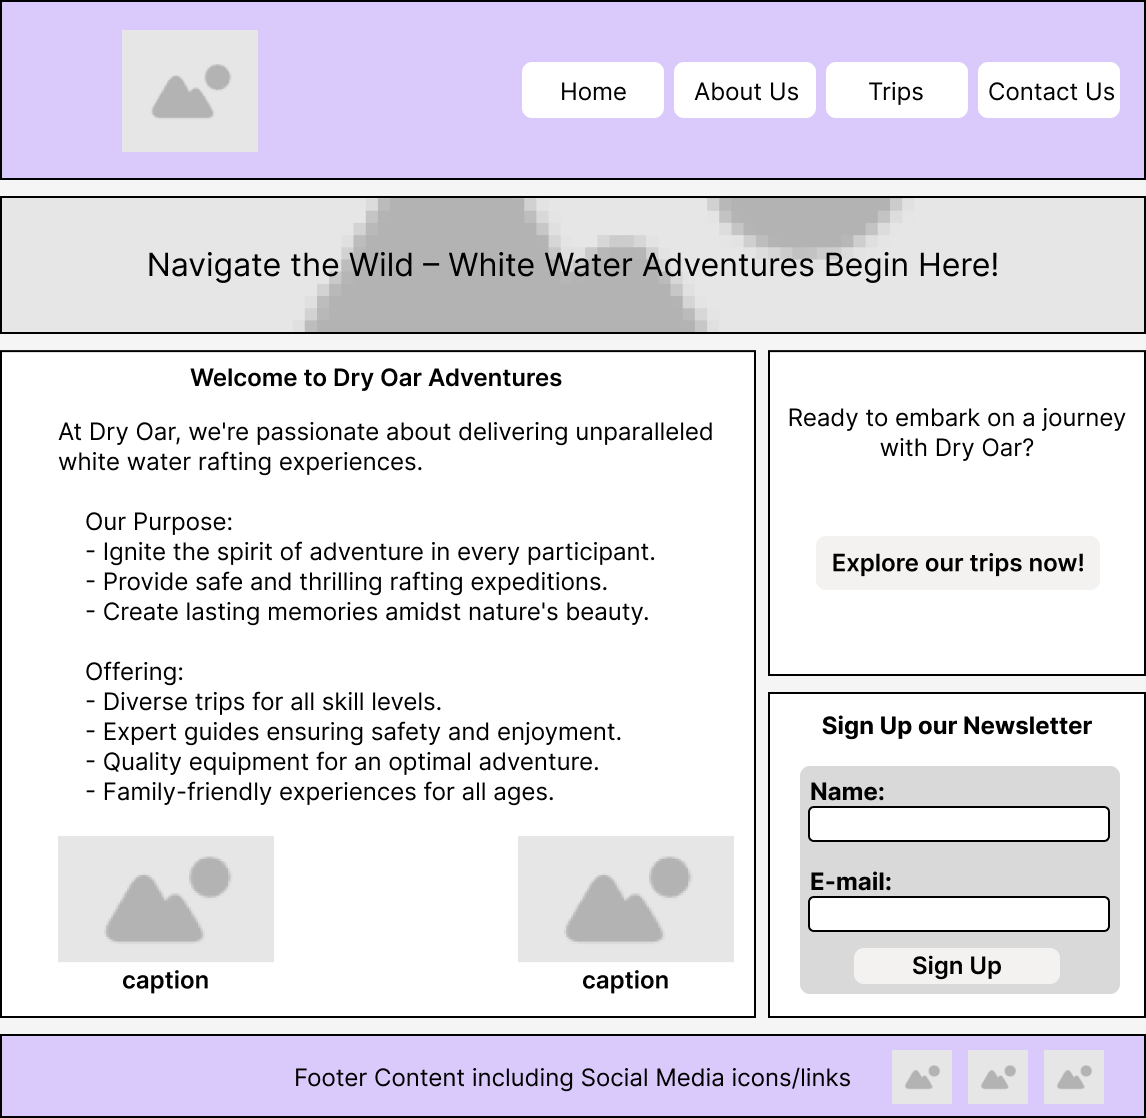
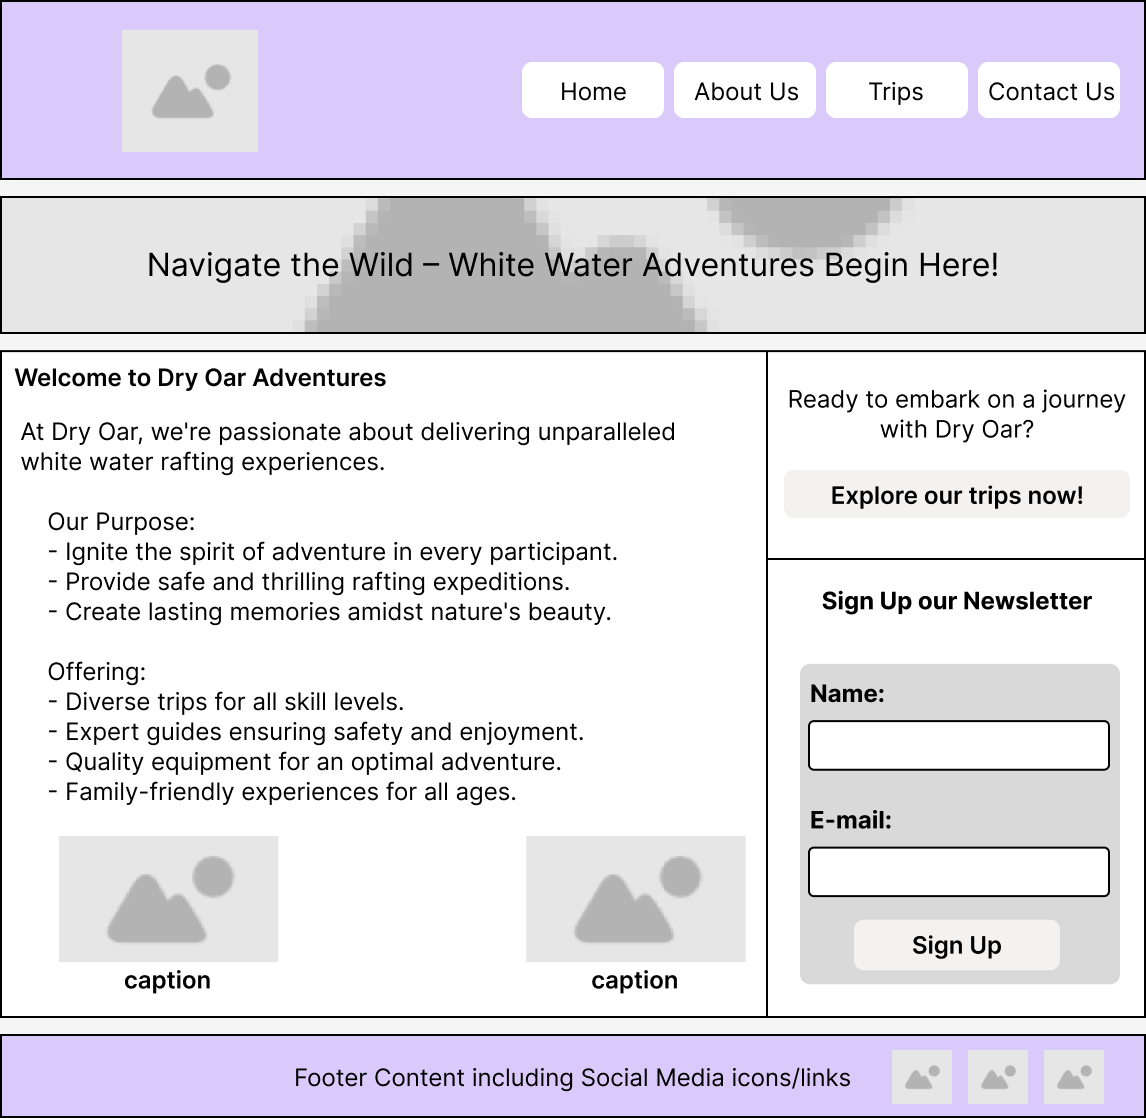
Final Project

diff --git a/wwr/about.html b/wwr/about.html
@@ -27,41 +27,44 @@
                 <p>Lorem ipsum dolor sit amet consectetur adipisicing elit. Labore, voluptatum voluptas nulla officiis in atque illo. Pariatur et tenetur culpa quaerat totam ex iure, doloremque ea est vel soluta provident deserunt eius nemo qui voluptatum commodi sed voluptates placeat aliquid ratione perferendis. Possimus doloremque odit iusto iste veritatis autem. Soluta.</p>
             </article>
         </div>
-        <div>
-            <h2>History</h2>
-            <section class="history">
-                <img src="images/history.jpg" alt="people rafting">
-                <p>History ... Lorem, ipsum dolor sit amet consectetur adipisicing elit. Nam aliquam, atque deserunt ullam a architecto nihil aspernatur dolorem earum tempore in consectetur enim corporis, quasi ipsum fuga, tenetur dicta rerum expedita quae nesciunt distinctio possimus aperiam doloribus! Consequatur, minima? Quae tempore omnis voluptatem, provident esse qui recusandae corrupti consequatur voluptate nisi hic suscipit odio officia, rerum, facere illo ratione magni! Atque nam inventore commodi? Suscipit doloribus qui iste, quaerat eveniet mollitia quas repellat accusamus autem consequuntur voluptatum? Quidem nobis sed rem totam natus harum eius nam! Ducimus officia, consequatur et repellat provident est architecto eum dolores numquam deleniti iure non, dolor modi eos labore. Minima unde iusto, consectetur nihil itaque saepe accusantium velit qui distinctio, excepturi blanditiis assumenda modi ducimus officiis deleniti deserunt. Inventore ut, quas repudiandae omnis alias consequatur, unde amet rem eius necessitatibus eos, sed odio dignissimos culpa perferendis?</p>
-            </section>
-        </div>
-        <div>
-            <h2>Adventure Awaits You!</h2>
-            <section class="adventure">
-                <figure>
-                    <img src="images/rafting.jpg" alt="Happy rafting team">
-                    <figcaption>Happy rafting team</figcaption>
-                </figure>
-                <figure>
-                    <img src="images/rafting2.jpg" alt="A rafting boat going down a river">
-                    <figcaption>A rafting boat going down a river</figcaption>
-                </figure>
-                <figure>
-                    <img src="images/rafting3.jpg" alt="Adults and children on a rafting boat">
-                    <figcaption>Adults and children on a rafting boat</figcaption>
-                </figure>
-                <figure>
-                    <img src="images/rafting4.jpg" alt="Rafting boats going down a river">
-                    <figcaption>Rafting boats going down a river</figcaption>
-                </figure>
-                <figure>
-                    <img src="images/rafting5.jpg" alt="A rafting boat going down a river">
-                    <figcaption>A rafting boat going down a river</figcaption>
-                </figure>
-            </section>
+        <div class="main-content">
+            <div>
+                <h2>History</h2>
+                <section class="history">
+                    <img src="images/history.jpg" alt="people rafting">
+                    <p>History ... Lorem, ipsum dolor sit amet consectetur adipisicing elit. Nam aliquam, atque deserunt ullam a architecto nihil aspernatur dolorem earum tempore in consectetur enim corporis, quasi ipsum fuga, tenetur dicta rerum expedita quae nesciunt distinctio possimus aperiam doloribus! Consequatur, minima? Quae tempore omnis voluptatem, provident esse qui recusandae corrupti consequatur voluptate nisi hic suscipit odio officia, rerum, facere illo ratione magni! Atque nam inventore commodi? Suscipit doloribus qui iste, quaerat eveniet mollitia quas repellat accusamus autem consequuntur voluptatum? Quidem nobis sed rem totam natus harum eius nam! Ducimus officia, consequatur et repellat provident est architecto eum dolores numquam deleniti iure non, dolor modi eos labore. Minima unde iusto, consectetur nihil itaque saepe accusantium velit qui distinctio, excepturi blanditiis assumenda modi ducimus officiis deleniti deserunt. Inventore ut, quas repudiandae omnis alias consequatur, unde amet rem eius necessitatibus eos, sed odio dignissimos culpa perferendis?</p>
+                </section>
+            </div>
+            <div>
+                <h2>Adventure Awaits You!</h2>
+                <section class="adventure">
+                    <figure>
+                        <img src="images/rafting.jpg" alt="Happy rafting team">
+                        <figcaption>Happy rafting team</figcaption>
+                    </figure>
+                    <figure>
+                        <img src="images/rafting2.jpg" alt="A rafting boat going down a river">
+                        <figcaption>A rafting boat going down a river</figcaption>
+                    </figure>
+                    <figure>
+                        <img src="images/rafting3.jpg" alt="Adults and children on a rafting boat">
+                        <figcaption>Adults and children on a rafting boat</figcaption>
+                    </figure>
+                    <figure>
+                        <img src="images/rafting4.jpg" alt="Rafting boats going down a river">
+                        <figcaption>Rafting boats going down a river</figcaption>
+                    </figure>
+                    <figure>
+                        <img src="images/rafting5.jpg" alt="A rafting boat going down a river">
+                        <figcaption>A rafting boat going down a river</figcaption>
+                    </figure>
+                </section>
+            </div>
         </div>
     </main>
     <footer>
         <p>&copy; 2023 🛶 Dry Oar 🛶 Wesley Magalhães Lima</p>
+        <p></p>
         <nav>
             <a href="https://www.facebook.com/" target="_blank">
                 <img src="images/facebook-icon.png" alt="Facebook icon">

diff --git a/wwr/styles/rafting.css b/wwr/styles/rafting.css
@@ -45,8 +45,8 @@ nav {
     margin-right: 1rem;
 }
 
-header nav a, .trips-table a {
-    display: block;
+header nav a, .trips-table a, .explore-trips a {
+    display: grid;
     font-family: var(--paragraph-font);
     text-decoration: none;
     color: white;
@@ -55,11 +55,11 @@ header nav a, .trips-table a {
     border-radius: 5px;
     margin: 5px;
     font-size: 1.1rem;
-    width: 100%;
+    width: 98%;
     text-align: center;
 }
 
-header nav a:hover, .trips-table a:hover {
+header nav a:hover, .trips-table a:hover, .explore-trips a:hover {
     font-family: var(--paragraph-font);
     background-color: var(--nav-hover-background-color);
     color: var(--nav-hover-link-color);
@@ -70,20 +70,21 @@ header nav a:hover, .trips-table a:hover {
 body {
     max-width: 1200px;
     margin: 1rem;
+    font-family: var(--paragraph-font);
 }
 
 h1, h2, h3 {
     color: var(--primary-color);
     background-color: var(--accent1-color);
     font-family: var(--heading-font);
-    margin-top: 1rem;
     padding: 5px;
     border-radius: 3px;
+    margin: 0.3rem;
 }
 
-p, figcaption, ul {
+p, figcaption, ul, legend{
     font-family: var(--paragraph-font);
-    padding: 10px;
+    padding: 8px;
     text-align: justify;
 }
 
@@ -102,12 +103,13 @@ p, figcaption, ul {
 .hero h1 {
     position: absolute;
     top: 1px;
-    width: 100%;
+    width: 99%;
     height: 20%;
     text-align: center;
     background-color: rgba(255, 255, 255, 0.7);
     color: var(--primary-color);
-    text-transform: uppercase; 
+    text-transform: uppercase;
+    font-size: 2rem; 
 }
 
 .hero article {
@@ -134,6 +136,13 @@ a img {
     height: auto;
 }
 
+.main-content {
+    margin: 1rem auto;
+    border: 1px solid var(--primary-color);
+    border-radius: 3px;
+}
+
+
 .history {
     display: grid;
     grid-template-columns: 1fr 5fr;
@@ -143,7 +152,7 @@ a img {
     width: 20vw;
     height: auto;
     display: grid;
-    margin: 0.8rem 0 0 0;
+    margin: 0.8rem 0 0 0.8rem;
     box-shadow: var(--primary-color) 0px 0px 0px 1.5px, var(--primary-color) 0px 4px 6px -1px, var(--secondary-color) 0px 1px 0px inset;
     border-radius: 3px;
 }
@@ -166,6 +175,12 @@ a img {
     font-size: 0.8rem;
     font-family: var(--paragraph-font);
     text-align: center;
+}
+
+.contact-main-content {
+    margin: 1rem auto;
+    border: 1px solid var(--primary-color);
+    border-radius: 3px;
 }
 
 .companyInformation {
@@ -268,7 +283,7 @@ footer nav a {
     background-color: rgba(255, 255, 255, 0.7);
     height: 100%;
     width: 100%;
-    font-size: 3rem;
+    font-size: 2rem;
     text-align: center;
 }
 
@@ -281,6 +296,8 @@ footer nav a {
     display: grid;
     grid-template-columns: 1.5fr 1fr;
     margin: 1rem auto;
+    border: 1px solid var(--primary-color);
+    border-radius: 3px;
 }
 
 .trips-section p {
@@ -324,16 +341,6 @@ footer nav a {
     text-align: center;
 }
 
-.trips-table button {
-    display: grid;
-    justify-content: center;
-    align-items: center;
-    height: 50px;
-    width: 300px;
-    font-size: large;
-    padding: 10px;
-}
-
 table {
     margin: 1rem;
     font-family: var(--paragraph-font);
@@ -368,10 +375,63 @@ tr th:first-child {
 
 .home-content {
     display: grid;
-    grid-template-columns: 2fr 1fr;
-    grid-template-rows: 1fr 2fr;
+    margin: 1rem auto;
+    border: 1px solid var(--primary-color);
+    border-radius: 3px;
+    /* grid-template-columns: 2fr 1fr;
+    grid-template-rows: 1fr 1fr; */
 }
 
 .home-information {
     display: grid;
+    grid-row-start: 1;
+    grid-row-end: 3;
+    /* padding-left: 10px; */
+    border-right: 1px solid var(--primary-color);
+}
+
+.home-information ul {
+    margin: 0.8rem;
+}
+
+.explore-trips {
+    display: grid;
+    grid-column-start: 2;
+    grid-column-end: 3;
+    align-content: center;
+    justify-items: center;
+    width: 100%;
+    height: 100%;
+    border-bottom: 1px solid var(--primary-color) ;
+}
+
+.home-information h2 {
+    margin: 0.3rem;
+}
+
+.home-figure {
+    display: grid;
+    grid-template-columns: repeat(2, 1fr);
+    justify-items: center;
+}
+
+.home-figure figcaption {
+    text-align: center;
+}
+
+.home-figure img {
+    width: 225px;
+    height: 125px;
+    box-shadow: var(--primary-color) 0px 0px 0px 1.5px, var(--primary-color) 0px 4px 6px -1px, var(--secondary-color) 0px 1px 0px inset;
+    border-radius: 3px;
+}
+
+.newsletter-form form {
+    width: 90%;
+    height: 80%;
+}
+
+.newsletter-form label {
+    height: 1rem;
+    align-self: center;
 }

diff --git a/wwr/index.html b/wwr/index.html
@@ -40,14 +40,16 @@
                     <li>Quality equipment for an optimal adventure.</li>
                     <li>Family-friendly experiences for all ages.</li>
                 </ul>
-                <figure>
-                    <img src="images/home1.jpg" alt="Image 1 Image">
-                    <figcaption>Image 1</figcaption>
-                </figure>
-                <figure>
-                    <img src="images/home2.jpg" alt="Image 2 Image">
-                    <figcaption>Image 2</figcaption>
-                </figure>
+                <div class="home-figure">
+                    <figure>
+                        <img src="images/home1.jpg" alt="rafting in calm waters">
+                        <figcaption>Rafting in calm waters</figcaption>
+                    </figure>
+                    <figure>
+                        <img src="images/home2.jpg" alt="rough water rafting">
+                        <figcaption>Rough water rafting</figcaption>
+                    </figure>
+                </div>
             </div>
             <div class="explore-trips">
                 <p>Ready to embark on a journey with Dry Oar?</p>
@@ -69,7 +71,7 @@
     </main>
     <footer>
         <p>&copy; 2023 🛶 Dry Oar 🛶 Wesley Magalhães Lima</p>
-        <a href="images/wireframe-trips-page.png">Trips Wireframe</a>
+        <a href="images/wireframe-home-page.png">Home Wireframe</a>
         <nav>
             <a href="https://www.facebook.com/" target="_blank">
                 <img src="images/facebook-icon.png" alt="Facebook icon">

diff --git a/wwr/contact.html b/wwr/contact.html
@@ -18,7 +18,7 @@
             <a href="contact.html">Contact Us</a>
         </nav>
     </header>
-    <main>
+    <main class="contact-main-content">
         <h1>CONTACT US</h1>
         <div>   
             <section class="companyInformation">
